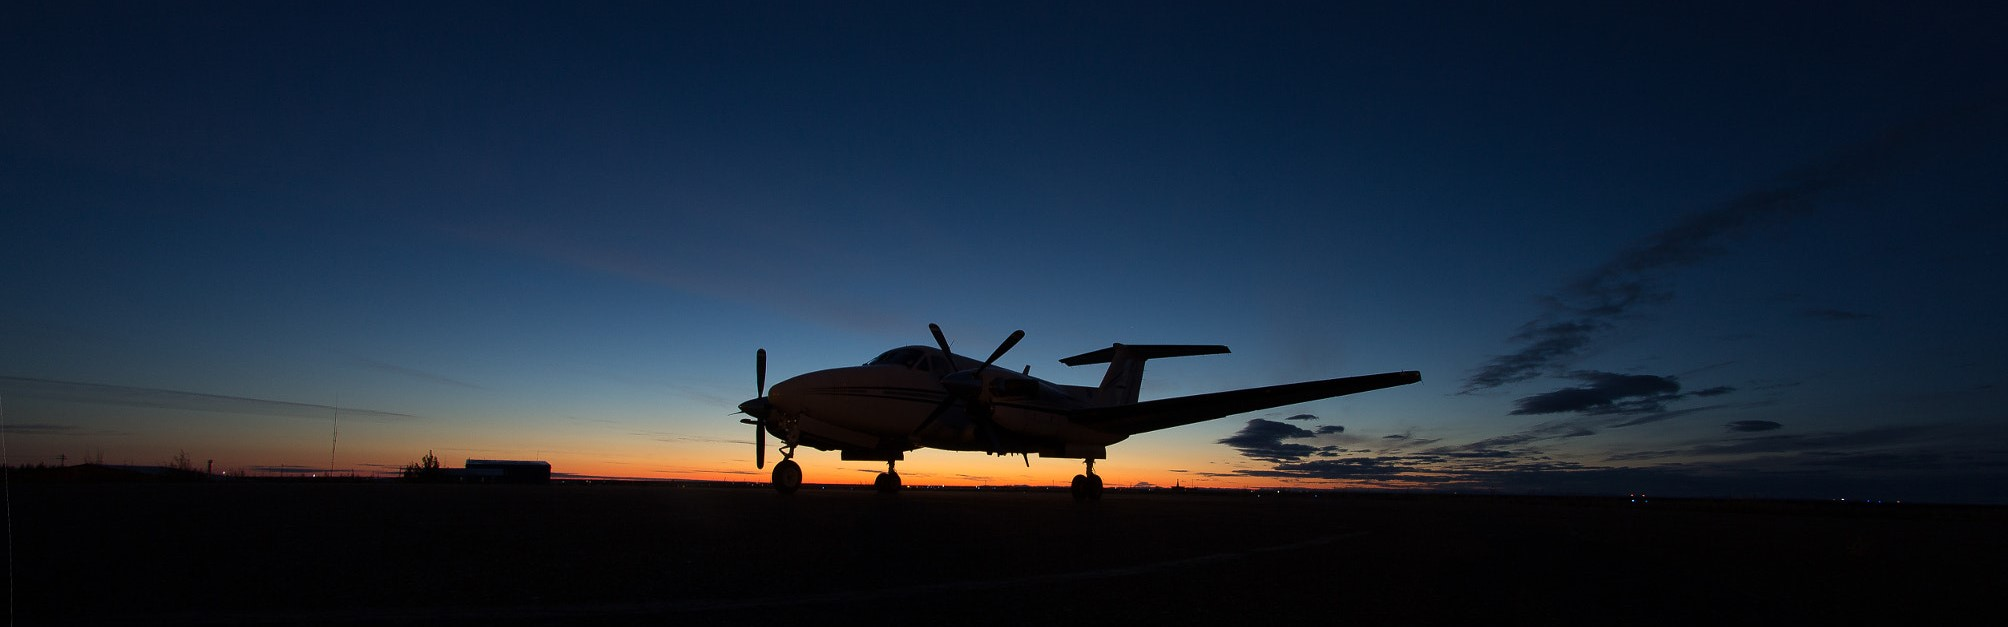
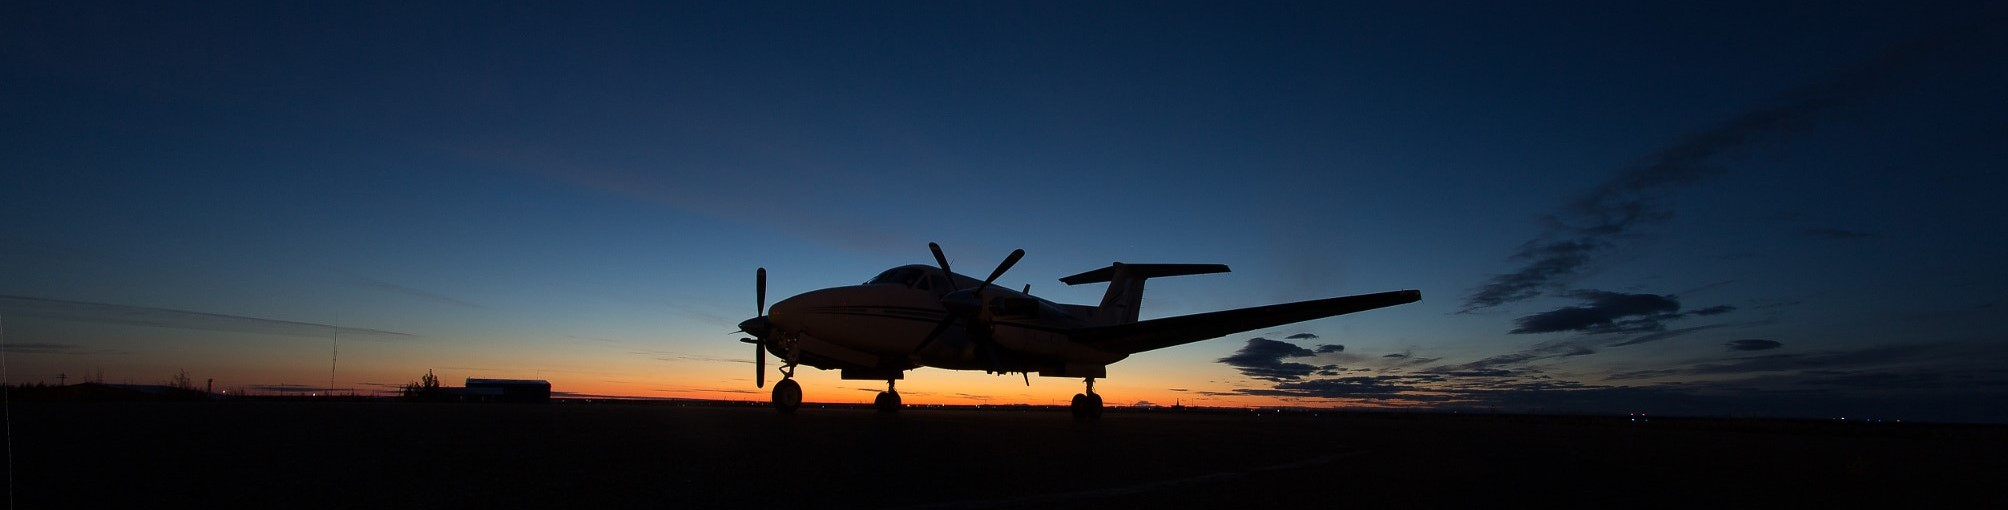
update flight...html

Changed region(s): [[0.0, 0.7059, 0.8645, 0.8235], [0.3705, 0.4706, 0.8645, 0.6765]]

diff --git a/src/main/resources/templates/index.html b/src/main/resources/templates/index.html
@@ -14,20 +14,20 @@
 <th:block th:include="common.html :: header"></th:block>
 <div class="layui-carousel" id="test10">
     <div carousel-item="">
-        <div><img src="images/plane1.jpg" style="width: 1300px;height:350px"></div>
-        <div><img src="images/plane4.jpg" style="width: 1300px;height:350px"></div>
-        <div><img src="images/plane3.jpg" style="width: 1300px;height:350px"></div>
-        <div><img src="images/plane2.jpg" style="width: 1300px;height:350px"></div>
-        <div><img src="images/plane.jpg" style="width: 1300px;height:350px"></div>
+        <div><img src="images/plane1.jpg" style="width: 100%;height:100%"></div>
+        <div><img src="images/plane4.jpg" style="width: 100%;height:100%"></div>
+        <div><img src="images/plane3.jpg" style="width: 100%;height:100%"></div>
+        <div><img src="images/plane2.jpg" style="width: 100%;height:100%"></div>
+        <div><img src="images/plane5.jpg" style="width: 100%;height:100%"></div>
 
 
     </div>
 </div>
 
-<div class="tab_contents" style="margin-top: 20px;" >
+<div class="tab_contents" style="margin-top: 40px;" >
     <!--导航条-->
     <ul class="tab_nav">
-        <li class="tabNav_active"><h2>国内/国际机票</h2></li>
+        <li class="tabNav_active"><h2>国内机票</h2></li>
         <li><h2>在线选座</h2></li>
         <li><h2>退票改签</h2></li>
     </ul>
@@ -41,7 +41,7 @@
                 <label class="layui-form-label">目的地</label>
                     <input name="arrivalcity" th:text="${arrivalcity}" type="text" required="required" class="layui-input">
                 <label class="layui-form-label">日期</label>
-                    <input name="date" th:text="${date}" type="text" required="required" class="layui-input">
+                    <input name="date" th:text="${date}" type="text" required="required" class="layui-input" placeholder="格式如：yyyy.mm.dd">
             </div>
 
             <div>
@@ -105,8 +105,8 @@
         //图片轮播
         carousel.render({
             elem: '#test10'
-            ,width: '1300px'
-            ,height: '350px'
+            ,width: '100%'
+            ,height: '300px'
             ,interval: 5000
         });
 
@@ -197,8 +197,8 @@
                 {field: 'departurecity', title: '出发城市', width: 100}
                 ,{field: 'arrivalcity', title: '到达城市', width: 100}
                 ,{field: 'departuretime', title: '出发时间',sort: true, width: 120}
+                ,{field: 'arrivaltime', title: '到达时间',sort: true, width: 130}
                 ,{field: 'date', title: '日期', width: 120}
-                ,{filed: 'arrivaltime', title: '到达时间',sort: true, width: 120}
                 ,{field: 'arrival_airport', title: '到达机场', width: 120}
                 ,{field: 'departure_airport', title: '出发机场', width: 120}
             ]]

diff --git a/src/main/resources/templates/flightSchedule.html b/src/main/resources/templates/flightSchedule.html
@@ -6,6 +6,7 @@
     <title>航班查询结果</title>
     <link rel="stylesheet" th:href="@{layui/css/layui.css}">
     <link type="text/css" rel="stylesheet" href="/css/jqstyle.css"/>
+    <link rel="stylesheet" href="/css/index.css"/>
     <style type="text/css">
         .btn{
             width: 100px;
@@ -25,12 +26,15 @@
 
 <th:block th:include="common.html :: header"></th:block>
 
-<div class="layui-body">
-    <div class="layui-low">
+
+<div class="card">
+    <h2 style="font-size: 18px">查询结果</h2>
+    <div class="tab_box">
         <table class="layui-hide" id="flightList"></table>
     </div>
-
 </div>
+
+
 <th:block th:include="common.html :: footer"></th:block>
 
 <script th:src="@{layui/layui.js}"></script>
@@ -47,14 +51,13 @@
             ,toolbar: 'default'
             ,page: true //开启分页
             ,cols: [[ //表头
-                 {field: 'departurecity', title: '出发城市', width: 80}
+                 {field: 'departurecity', title: '出发城市', width: 100}
                 ,{field: 'arrivalcity', title: '到达城市', width: 100}
                 ,{field: 'departuretime', title: '出发时间',sort: true, width: 120}
-                ,{filed: 'arrivaltime', title: '到达时间',sort: true, width: 120}
+                ,{field: 'arrivaltime', title: '到达时间',sort: true, width: 130}
                 ,{field: 'date', title: '日期', width: 120}
                 ,{field: 'arrival_airport', title: '到达机场', width: 120}
                 ,{field: 'departure_airport', title: '出发机场', width: 120}
-                ,{field: 'passby_city', title: '经过城市', width: 80}
             ]]
         });
 

diff --git a/src/main/resources/templates/common.html b/src/main/resources/templates/common.html
@@ -20,9 +20,9 @@
       <li class="layui-nav-item layui-show-xs-inline-block layui-hide-sm" lay-header-event="menuLeft">
         <i class="layui-icon layui-icon-spread-left"></i>
       </li>
-
-      <li class="layui-nav-item layui-hide-xs"><a href="">注册</a></li>
-      <li class="layui-nav-item layui-hide-xs"><a href="">登录</a></li>
+      <li class="layui-nav-item layui-hide-xs"><a href="/index">首页</a></li>
+      <li class="layui-nav-item layui-hide-xs"><a href="/register">注册</a></li>
+      <li class="layui-nav-item layui-hide-xs"><a href="/login">登录</a></li>
       <li class="layui-nav-item">
         <a href="javascript:;">订单</a>
         <dl class="layui-nav-child">
@@ -37,9 +37,9 @@
           我的
         </a>
         <dl class="layui-nav-child">
-          <dd><a href="">乘客信息</a></dd>
-          <dd><a href="">个人信息</a></dd>
-          <dd><a href="">订单</a></dd>
+          <dd><a href="/orderdetail">乘客信息</a></dd>
+          <dd><a href="/orderdetail">个人信息</a></dd>
+          <dd><a href="/orderdetail">订单</a></dd>
           <hr>
           <dd style="text-align: center;"><a href="">退出</a></dd>
         </dl>
